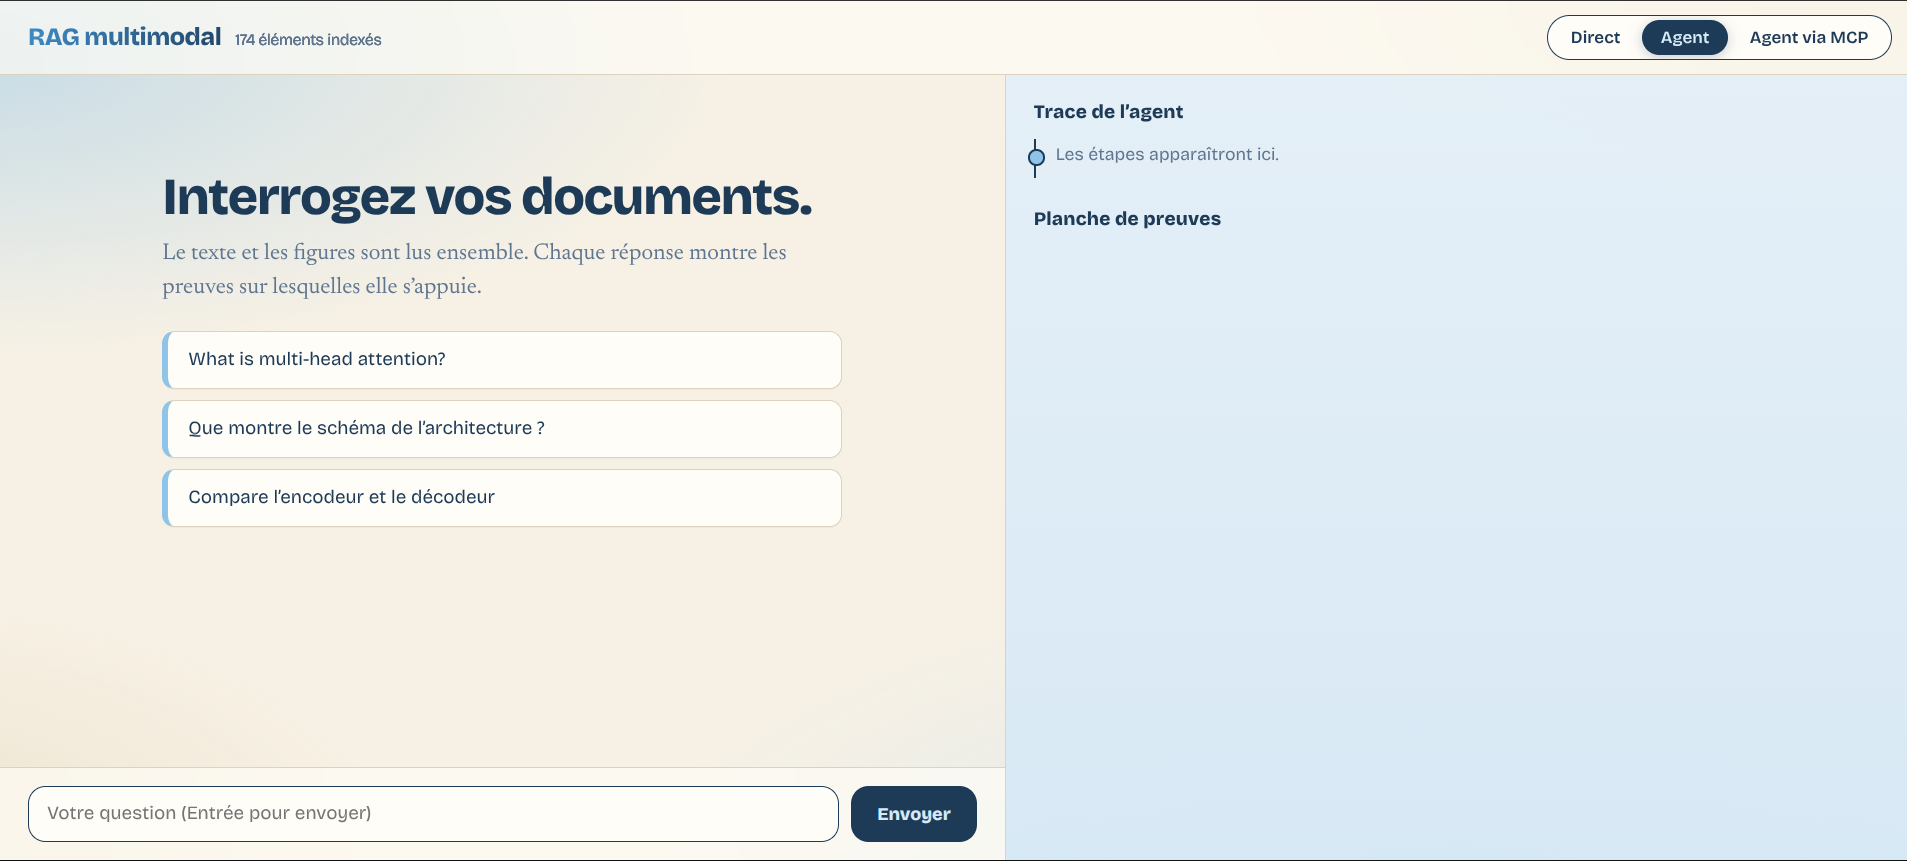
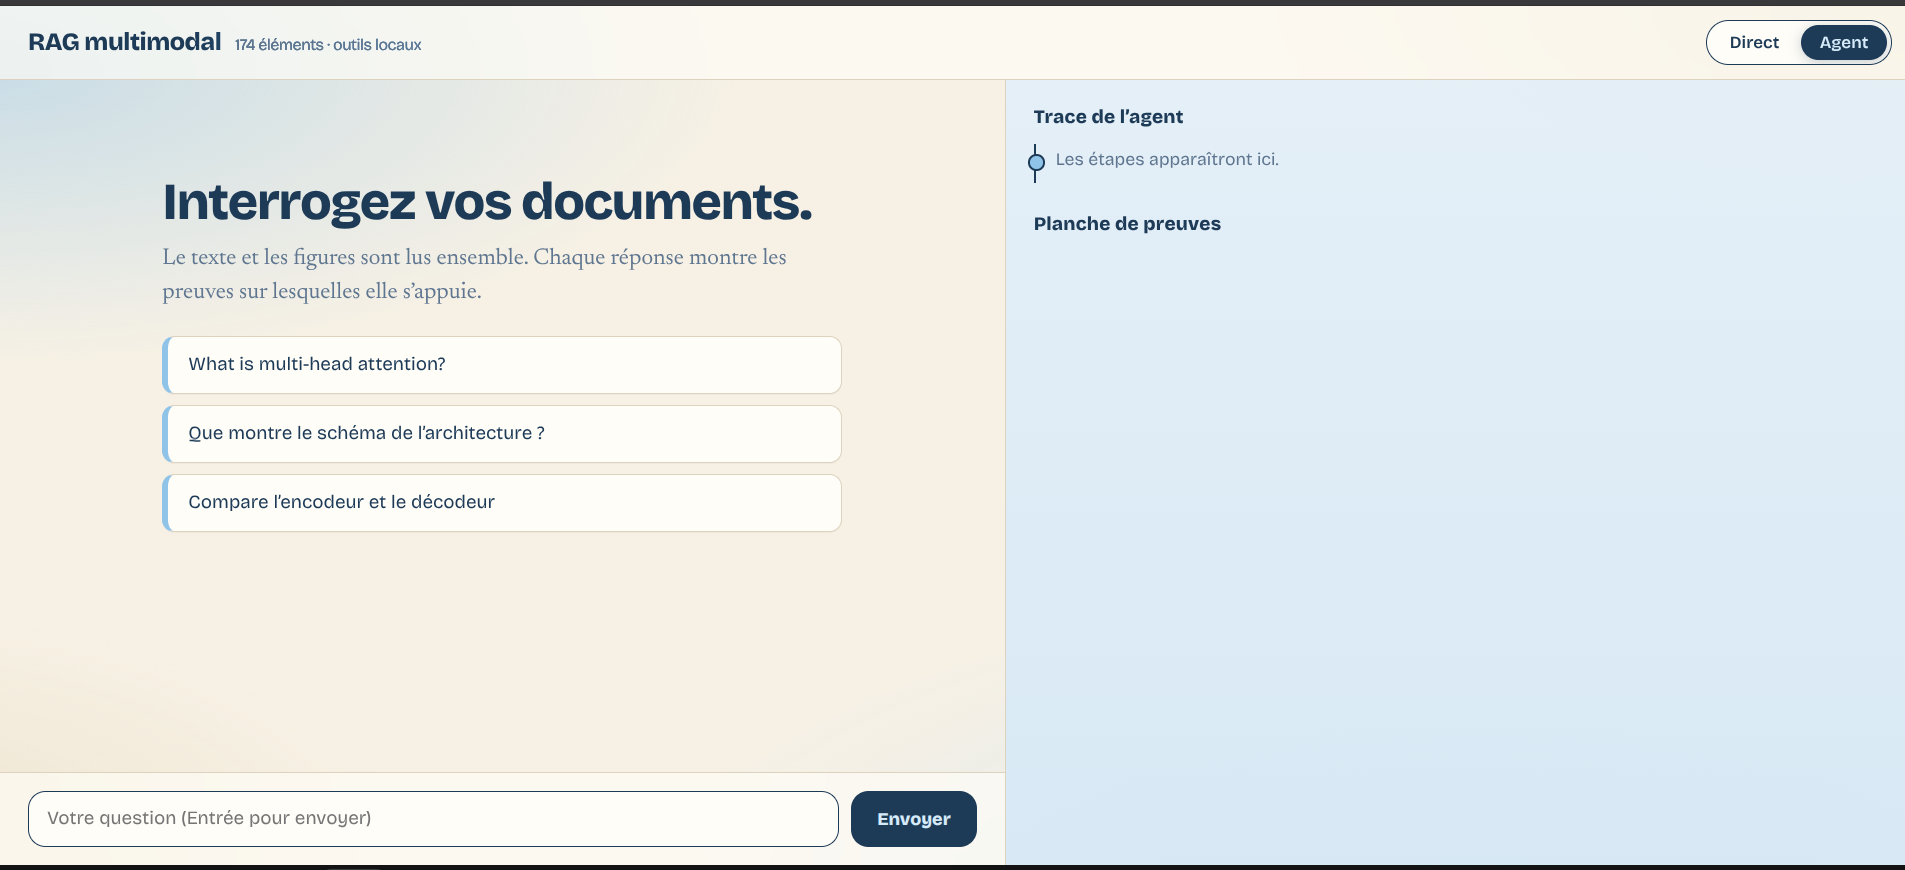
interface modifier

diff --git a/README.md b/README.md
@@ -341,7 +341,7 @@ The monitoring workflow is organized as follows:
 Launch the application together with its monitoring services:
 
 ```bash
-docker compose -f compose.yaml -f compose.monitoring.yaml up --build -d
+docker compose -f docker-compose.yaml -f compose.monitoring.yaml up --build -d
 ```
 
 Access the monitoring interfaces:
